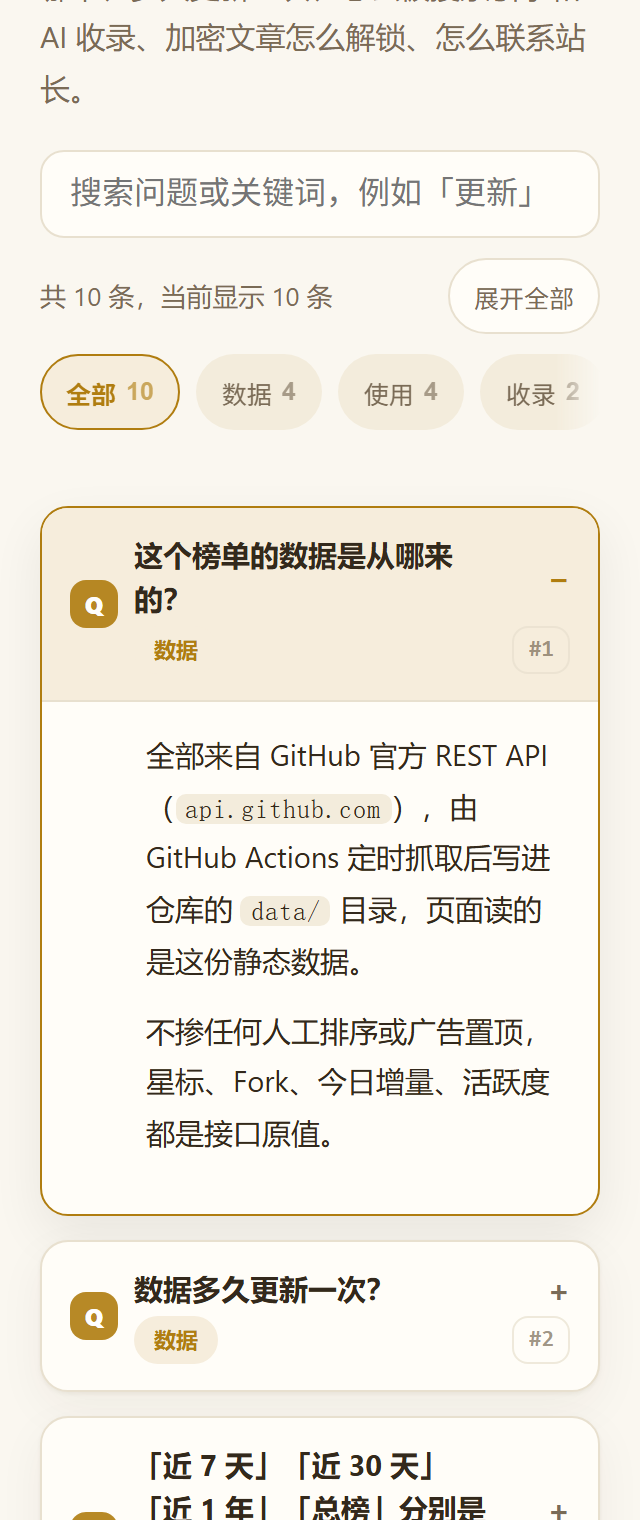
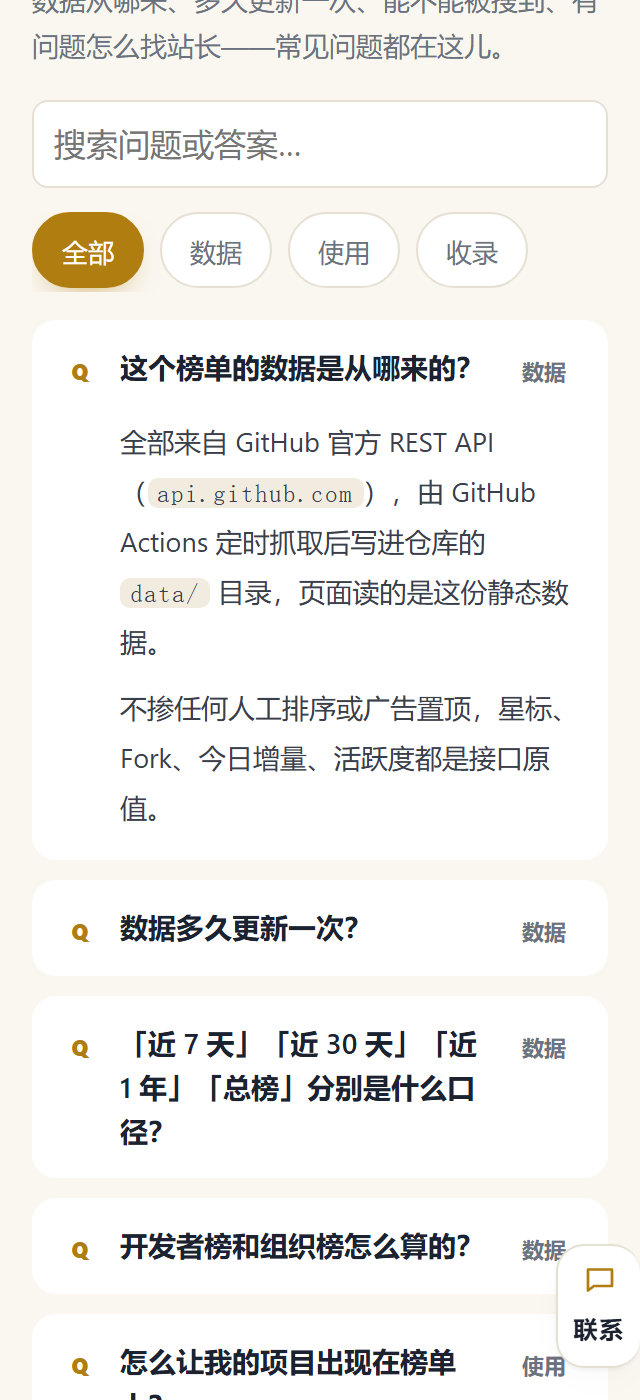
feat: 分类胶囊统一视觉（实心选中/圆角/hover/焦点环 + 窄屏单行横滚渐隐），三页一致; 新增 check-chip-style 门禁; v163

diff --git a/index.html b/index.html
@@ -132,7 +132,10 @@ select:focus,input:focus,button:focus-visible{outline:2px solid var(--gold);outl
  .guide-tip{color:var(--muted);font-size:12px;margin:8px 0 0}
 /* 分类标签 */
 .cats{display:flex;flex-wrap:wrap;gap:8px;margin-top:12px}
-.cat{border:1px solid var(--border);background:var(--chip);border-radius:999px;padding:3px 14px;font-size:13px;cursor:pointer;color:var(--muted);transition:border-color .15s,color .15s}
+.cat{border:1px solid var(--border);background:var(--card);border-radius:999px;padding:7px 15px;font-size:13px;line-height:1;cursor:pointer;color:var(--muted);white-space:nowrap;transition:border-color .15s,color .15s,background .15s,box-shadow .15s}
+.cat:hover{border-color:var(--accent);color:var(--accent);background:var(--chip)}
+.cat.on{background:var(--accent);border-color:var(--accent);color:#fff;box-shadow:0 6px 16px -10px var(--accent)}
+.cat.on:hover{color:#fff}
 .cat:hover{border-color:var(--gold);color:var(--accent)}
 .cat.on{background:var(--gold);border-color:var(--gold);color:#10141f;font-weight:600}
 /* 统计概览 */
@@ -511,6 +514,19 @@ body[data-page="articles"] #rankBar,body[data-page="articles"] #stats,body[data-
 .artvbar input{flex:1 1 auto;min-width:0}
 .artvbar select{flex:0 0 auto}
 .artview .chips{margin:0 0 14px}
+/* 分类胶囊：选中实心深色 + 投影，未选中细描边；窄屏单行横滚，右缘渐隐提示还有更多 */
+.chips{display:flex;flex-wrap:wrap;gap:8px;align-items:center}
+.chip{display:inline-flex;align-items:center;border:1px solid var(--border);background:var(--card);color:var(--muted);border-radius:999px;padding:7px 15px;font:inherit;font-size:13px;line-height:1;cursor:pointer;white-space:nowrap;transition:border-color .15s,color .15s,background .15s,box-shadow .15s,transform .12s}
+.chip:hover{border-color:var(--accent);color:var(--accent);background:var(--chip)}
+.chip:active{transform:translateY(1px)}
+.chip.is-on{background:var(--accent);border-color:var(--accent);color:#fff;box-shadow:0 6px 16px -10px var(--accent)}
+.chip.is-on:hover{color:#fff}
+.chip:focus-visible{outline:2px solid var(--accent);outline-offset:2px}
+@media (max-width:760px){
+  #artChips,#faqChips{flex-wrap:nowrap;overflow-x:auto;overflow-y:hidden;padding-bottom:2px;-webkit-overflow-scrolling:touch;-webkit-mask-image:linear-gradient(90deg,#000 0,#000 calc(100% - 22px),transparent 100%);mask-image:linear-gradient(90deg,#000 0,#000 calc(100% - 22px),transparent 100%)}
+  #artChips.x-end,#faqChips.x-end{-webkit-mask-image:none;mask-image:none}
+  .chip{min-height:38px;padding:8px 14px}
+}
 #artViewList .empty{padding:28px 18px;border:1px dashed var(--border);border-radius:12px;text-align:center;color:var(--muted);font-size:13.5px}
 @media (max-width:600px){.artvbar{flex-wrap:wrap}.artvbar input,.artvbar select{flex:1 1 100%}}
   body[data-page="faq"] #rankBar,body[data-page="faq"] #stats,body[data-page="faq"] #adHomeTop{display:none}
@@ -521,7 +537,7 @@ body[data-page="articles"] #rankBar,body[data-page="articles"] #stats,body[data-
   .faqview .qa>summary:focus-visible{outline:2px solid var(--accent);outline-offset:-2px}
   .faqview .qa .qmark{flex:0 0 auto;width:20px;height:20px;margin-top:2px;border-radius:6px;background:var(--accent-soft);color:var(--accent);font-size:11px;font-weight:800;display:grid;place-items:center}
   .faqview .qa .qtext{flex:1 1 auto;min-width:0}
-  .faqview .qa .qtag{flex:0 0 auto;font-size:11px;color:var(--muted);border:1px solid var(--line);border-radius:999px;padding:1px 7px;margin-top:3px}
+  .faqview .qa .qtag{flex:0 0 auto;font-size:11.5px;line-height:1.5;color:var(--muted);background:var(--chip);border:1px solid var(--border);border-radius:999px;padding:2px 9px;margin-top:3px}
   .faqview .qa .ans{padding:0 16px 15px 46px;color:#39404b;font-size:14px;line-height:1.85}
   .faqview .qa .ans p{margin:0 0 8px}
   .faqview .qa .ans p:last-child{margin-bottom:0}
@@ -1219,6 +1235,20 @@ html[data-theme="ink"] meta,html[data-theme="ink"]{color-scheme:dark}
       card.appendChild(foot);
       return card;
     }
+    function paintChipBox(box){
+      if(!box) return;
+      var max=box.scrollWidth-box.clientWidth;
+      box.classList.toggle('x-end', max<=4 || box.scrollLeft>=max-4);
+    }
+    function bindChipScroll(){
+      ['artChips','faqChips'].forEach(function(id){
+        var box=document.getElementById(id);
+        if(box && !box.__chipBound){
+          box.__chipBound=1;
+          box.addEventListener('scroll',function(){ paintChipBox(box); },{passive:true});
+        }
+      });
+    }
     function artvChips(){
       var box=document.getElementById('artChips');
       if(!box) return;
@@ -1229,6 +1259,7 @@ html[data-theme="ink"] meta,html[data-theme="ink"]{color-scheme:dark}
         html+='<button type="button" class="chip'+(artv.cat===c?' is-on':'')+'" data-artcat="'+artvEsc(c)+'">'+artvEsc(c)+'</button>';
       });
       box.innerHTML=html;
+      paintChipBox(box); bindChipScroll();
     }
     function artvMatch(it){
       if(artv.cat!=='all' && artCatOf(it)!==artv.cat) return false;
@@ -1303,6 +1334,7 @@ html[data-theme="ink"] meta,html[data-theme="ink"]{color-scheme:dark}
         html+='<button type="button" class="chip'+(faqq.tag===t?' is-on':'')+'" data-faqtag="'+artvEsc(t)+'">'+artvEsc(t)+'</button>';
       });
       box.innerHTML=html;
+      paintChipBox(box); bindChipScroll();
     }
     function renderFaq(){
       var box=document.getElementById('faqList');

diff --git a/faq.html b/faq.html
@@ -46,8 +46,12 @@ h1{font-size:26px;margin:6px 0 8px;letter-spacing:-.3px}
   .chips.x-end{-webkit-mask-image:none;mask-image:none}
   .chip{flex:0 0 auto;min-height:38px;display:inline-flex;align-items:center;padding:8px 14px}
 }
-.chip{padding:4px 12px;border-radius:999px;background:var(--chip);border:1px solid transparent;color:var(--muted);font-size:12.5px;cursor:pointer}
-.chip.is-on{background:var(--accent-soft);border-color:var(--accent);color:var(--accent);font-weight:600}
+.chip{appearance:none;display:inline-flex;align-items:center;padding:7px 15px;border-radius:999px;background:var(--card);border:1px solid var(--border);color:var(--muted);font-size:13px;line-height:1;cursor:pointer;white-space:nowrap;transition:border-color .15s,color .15s,background .15s,box-shadow .15s,transform .12s}
+.chip:hover{border-color:var(--accent);color:var(--accent);background:var(--chip)}
+.chip:active{transform:translateY(1px)}
+.chip.is-on{background:var(--accent);border-color:var(--accent);color:#fff;font-weight:600;box-shadow:0 6px 16px -10px var(--accent)}
+.chip.is-on:hover{color:#fff}
+.chip:focus-visible{outline:2px solid var(--accent);outline-offset:2px}
 #expandAll{margin-left:auto;border-color:var(--line);background:var(--card)}
 .qalist{display:grid;gap:12px}
 .qa{background:var(--card);border:1px solid var(--line);border-radius:var(--radius);box-shadow:var(--shadow);padding:0;overflow:hidden}

diff --git a/articles.html b/articles.html
@@ -69,8 +69,12 @@ header{display:grid;grid-template-columns:minmax(0,1fr) auto auto;align-items:ce
   .chips.x-end{mask-image:none}
   .chip{flex:0 0 auto;min-height:38px;display:inline-flex;align-items:center;padding:8px 13px}
 }
-.chip{appearance:none;border:1px solid var(--border);background:var(--card);color:var(--muted);font:600 12.5px/1 inherit;padding:7px 12px;border-radius:999px;cursor:pointer}
-.chip.is-on{background:var(--accent);border-color:var(--accent);color:#fff}
+.chip{appearance:none;display:inline-flex;align-items:center;border:1px solid var(--border);background:var(--card);color:var(--muted);font:600 13px/1 inherit;padding:7px 15px;border-radius:999px;cursor:pointer;white-space:nowrap;transition:border-color .15s,color .15s,background .15s,box-shadow .15s,transform .12s}
+.chip:hover{border-color:var(--accent);color:var(--accent);background:var(--chip)}
+.chip:active{transform:translateY(1px)}
+.chip.is-on{background:var(--accent);border-color:var(--accent);color:#fff;box-shadow:0 6px 16px -10px var(--accent)}
+.chip.is-on:hover{color:#fff}
+.chip:focus-visible{outline:2px solid var(--accent);outline-offset:2px}
 .chip b{font-weight:600;opacity:.75;margin-left:4px;font-size:11px}
 .cards{display:flex;flex-direction:column;gap:14px}
 .apager{display:flex;align-items:center;justify-content:center;gap:14px;margin-top:18px;flex-wrap:wrap}

diff --git a/sw.js b/sw.js
@@ -1,5 +1,5 @@
 /* Service Worker：缓存页面外壳（HTML/JS/图标），让离线也能打开；GitHub API 不缓存，由页面自己的 localStorage 管理 */
-const CACHE = 'ghrank-shell-v162';
+const CACHE = 'ghrank-shell-v163';
 const SHELL = ['./', 'index.html', 'js/bundle.js', 'js/md.js', 'manifest.json', 'icon.svg'];
 // 只预缓存 meta（约 2KB）。榜单数据按 range 分文件、由页面按需加载，不再在安装时白下几�?KB
 const DATA = 'data/repos-meta.js';

diff --git a/worker.js b/worker.js
@@ -1630,7 +1630,7 @@ async function injectFaqLd(env, html) {
 
 // 静态资源版本：HTML 里的 /js/*.js 都会被加上 ?v=<这里>，于是能给浏览器一年 immutable；
 // 改了前端就把它 +1（不然用户浏览器会抱着一周的旧 bundle，界面上去点了没反应）
-const ASSET_V = 'v162';
+const ASSET_V = 'v163';
 
 function emptyNav() {
   return { updatedAt: '', groups: [] };

diff --git a/docs/优化建议.md b/docs/优化建议.md
@@ -4399,3 +4399,59 @@ if (pageMark === 'nav' || pageMark === 'articles') sp.set('page', pageMark);
 ### 线上
 
 提交后部署 `configured=true ai=true`，`check-live` 全绿。
+
+
+## 第 133 批：分类胶囊 —— 从「浏览器默认按钮」变成一套设计
+
+日期：2026-11-26　版本：v163
+
+### 问题：不是丑，是根本没样式
+
+「文章」和「问答」两个视图里的分类按钮写的是 `class="chip"`，但 `index.html` 里**从来没有 `.chip` 的样式**（榜单用的另一套 `.cat`）。没有样式 = 浏览器默认按钮：方角、灰底、系统字体，和整站的暖纸风完全不是一个东西。
+
+同时三处胶囊还各不相同：
+
+| 位置 | 问题 |
+| --- | --- |
+| 首页文章视图 | 完全没有 `.chip` 样式（默认按钮） |
+| 首页问答视图 | 同上；行尾标签是个 11px 细描边小框 |
+| `/articles` | 有样式，但字号 12.5px、无 hover、选中无投影 |
+| `/faq` | 选中是「浅底 + 主色字」，和别的页不一致 |
+
+### 改法：一套胶囊，四处复用
+
+```css
+.chips{display:flex;flex-wrap:wrap;gap:8px;align-items:center}
+.chip{display:inline-flex;align-items:center;border:1px solid var(--border);background:var(--card);
+      color:var(--muted);border-radius:999px;padding:7px 15px;font-size:13px;line-height:1;
+      white-space:nowrap;transition:border-color .15s,color .15s,background .15s,box-shadow .15s,transform .12s}
+.chip:hover{border-color:var(--accent);color:var(--accent);background:var(--chip)}
+.chip:active{transform:translateY(1px)}
+.chip.is-on{background:var(--accent);border-color:var(--accent);color:#fff;box-shadow:0 6px 16px -10px var(--accent)}
+.chip:focus-visible{outline:2px solid var(--accent);outline-offset:2px}
+```
+
+- 榜单的 `.cat` 同步成同一套参数（它原来更小更灰），选中态加同样的金色投影。
+- 问答视图每行右侧的标签改成软胶囊（`background:var(--chip);border:1px solid var(--border);border-radius:999px;padding:2px 9px;font-size:11.5px`），和分类胶囊是同一门语言。
+- 窄屏：`#artChips/#faqChips` 单行横滚 + 22px 右缘渐隐，新增 `paintChipBox(box)` 在容器真溢出时挂 `x-end`（滚到末尾撤掉渐隐），并在 `artvChips()`/`faqChips()` 重绘后调用。
+- `/articles`、`/faq` 两个静态页的 `.chip` 换成同一套（原来是 12.5px / 浅底选中）。
+
+### 门禁
+
+`node scripts/check-chip-style.mjs`（新，CDP，**15 项**）：
+
+- 圆角 ≥18（实测 999px）、选中背景 ≠ 未选中、选中文字纯白、未选中浅底 + 描边、高度 28–44（实测 29）；
+- hover 后描边变主色（用 `Input.dispatchMouseEvent` 真移鼠标，实测 `rgb(176,125,16)`）；
+- 点第 2 个分类后 `is-on` 唯一且列表跟着换；
+- 问答视图同样一套（4 个胶囊、圆角 999、白字、可切换）；
+- 320px 下单行（`rows:1`）、`overflow-x:auto`、胶囊高 38；
+- **不溢出时不该有渐隐**（`sw=288 cw=288` → `mask:none`），塞 4 个超长胶囊造出 `sw=948 cw=288` 后才出现 `linear-gradient`。
+
+线上新增 3 条断言（首页/文章页/问答页各一条），本次 **ALL OK (173)**。
+
+### 坑
+
+1. **CDP `clip` 超出视口会截出全白图**（第一张 `faq-chips.png` 只有 3KB）→ 先 `scrollIntoView` 再整屏截。
+2. `mask-image` 必须同时写 `-webkit-` 前缀，否则老 Safari / 老 Chrome 静默失效（渐隐直接消失）。
+3. 胶囊容器重绘（`innerHTML`）会把 `scrollLeft` 归零 → `x-end` 判断必须在重绘**之后**跑，否则刚滚到末尾又被判成「没溢出」。
+4. `/faq` 页导语里的「加密文章怎么解锁」不在 HTML 里，而是 `data/qa.json` 的 `intro` 字段 —— 改文案要改数据，别在 `faq.html` 里搜不到就以为没事。
